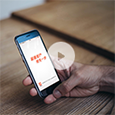
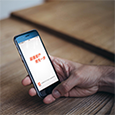
modified video

diff --git a/index.html b/index.html
@@ -225,23 +225,30 @@
                                 </form>
                             </div>
                         </div>
+						<p class="playvideo"><a href="" data-toggle="modal" data-target="#myModal_video1" data-dismiss="modal" aria-hidden="true"><img src="images/index/play.png">  超值资产，点击开启简陋之旅</a></p>		
+						<!-- 视频模态框（Modal） -->
+						<div class="modal fade" id="myModal_video1" tabindex="-1" role="dialog" 
+						   aria-labelledby="myModalLabel" aria-hidden="true">
+						   <div class="modal-dialog">
+							  <div class="modal-content">
+								<video width="100%" controls id="video1">
+								  <source src="images/index/sp(1).mp4" type="video/mp4">
+								</video>
+							  </div><!-- /.modal-content -->
+						   </div><!-- /.modal -->
+						</div>							
+						<script>
+							// 视频播放	   
+							var myVideo=document.getElementById("video1"); 
+							function playPause(){ 
+								  myVideo.play(); 
+							} 	  
+						</script>													
                     </div>				
 				</div>
 			</div>
 		</div>
-	<script>
-	   $(function(){		  
-		$("#indexCarousel").carousel('cycle');// 背景图片自动轮播
-		// 搜索切换
-		$('#tabBar').on('click', 'li', function(){
-			var tips = $(this).attr('tips');
-			if(tips){
-				$(this).addClass('on').siblings().removeClass('on');
-				$('#keyword').attr('placeholder',tips)
-			}
-		});		
-	   });  	   
-	</script>		
+
 	</div> 
 	<!-- 模块入口 -->
 	<div class="module-entrance">
@@ -289,8 +296,20 @@
 		</ul>
 		 <div class="clearfix"></div>
 	 </div>
-	</div> 	
-<div style="background:#f5f5f5;padding-bottom:50px">	
+	</div> 
+</div><!-- 背景f5结束标签 -->	
+	
+<div style="background:#f5f5f5;padding:50px 0">	
+<!-- 平台特点 -->	
+<div class="mask4-wrapper">
+	<h2>价值资产 <span>覆盖全国16座城市，持续扩张中</span></h2>
+	<ul class="clearfix">
+		<li><h3>专家解读</h3><p>资深专家</br>在线答疑</p></li>
+		<li><h3>数据分析</h3><p>大数据库</br>专业分析</p></li>
+		<li><h3>全程服务</h3><p>从始而终</br>安心无忧</p></li>
+		<li><h3>金融助力</h3><p>合法资金</br>强大保障</p></li>
+	</ul>
+</div>		
 	<!-- 城市入口 -->
 	<div class="city-entrance">
 		<div class="container">
@@ -332,7 +351,7 @@
 				</div>
 			</div>
 		</div>
-	</div>	
+	</div>		
 <!-- 司法拍卖	 -->
 <div class="city_tuijian con12">
 	<h2 style="float:left;">司法拍卖 <span>专业指导，精确捡漏</span></h2>
@@ -343,7 +362,7 @@
 	   <li><a href="#gengduo" data-toggle="tab">更多</a></li>
 	</ul>
 	<div class="clearfix"></div>
-	<div id="myTabContent" class="tab-content">
+	<div id="myTabContent" class="tab-content" >
 		<!-- 城市1 -->
 		<div class="value con12 tab-pane fade in active" id="beijing">
 			<div class="value_con w360">
@@ -915,17 +934,7 @@
 	</div>	
 </div>		
 <div class="clearfix"></div>	
-<!-- 平台特点 -->	
-<div class="mask4-wrapper">
-	<h2>平台特点</h2>
-	<p>我们足够专业，所以更值得信任</p>
-	<ul class="clearfix">
-		<li><h3>专家解读</h3><p>资深专家</br>在线答疑</p></li>
-		<li><h3>数据分析</h3><p>大数据库</br>专业分析</p></li>
-		<li><h3>全程服务</h3><p>从始而终</br>安心无忧</p></li>
-		<li><h3>金融助力</h3><p>合法资金</br>强大保障</p></li>
-	</ul>
-</div>	
+</div><!-- 背景f5结束标签 -->
 <!-- 下载APP -->
 <div class="app-wrapper">
 	<div class="app-info">
@@ -963,6 +972,8 @@
 		  myVideo.play(); 
 	} 	  
 </script>	
+
+<div style="background:#f5f5f5;padding:50px 0">	
 	<div class="news">
 		<h2>资讯信息 <span>热门资讯，一手掌握</span></h2>
 		<div class="news_con">
@@ -1003,7 +1014,7 @@
 		</div>
 		<div class="clearfix"></div>
 	</div>	
-</div><!-- 背景f5结束标签 -->
+</div>	<!-- 背景f5结束标签 -->
 <!-- 合作伙伴 -->
 <div class="partners">
 	<h2>合作伙伴</h2>
@@ -1046,6 +1057,66 @@ function hideImg(){
 	$(".wechat").css("display","none");
 }
 </script>
+
+<script type="text/javascript">
+	function addLoadEvent(func) {
+	  var oldonload = window.onload;
+	  if (typeof window.onload != 'function') {
+		window.onload = func;
+	  } else {  
+		window.onload = function() {
+		  oldonload();
+		  func();
+		}
+	  }
+	}
+	function $(id){
+		return document.getElementById(id);
+	}
+	function showProvince(){
+		$("selectProvince").onclick = showAllProvince;
+		selectProvince();
+	}
+	function showAllProvince(){
+		$("allProvince").style.display = "block";
+		$("selectProvince").style.color = "#CCCCCC";
+		$("selectProvince").style.backgroundPosition = "39px -17px";
+	}
+	function hideAllProvince(){
+		$("allProvince").style.display = "none";
+		$("selectProvince").style.color = "#000000";
+		$("selectProvince").style.backgroundPosition = "49px -2px";
+	}
+	function selectProvince(){
+		var pro = $("allProvince").getElementsByTagName("li");
+		var links;
+		for(var i=0;i<pro.length;i++){
+			links = pro[i].getElementsByTagName("a");
+			for(var j=0;j<links.length;j++){
+				links[j].onclick = function(){
+					$("selectProvince").innerHTML = this.innerHTML;
+					hideAllProvince();
+				}
+			}
+		}
+	}
+	addLoadEvent(showProvince);
+</script>
+
+	<script>
+	   $(function(){		  
+		$("#indexCarousel").carousel('cycle');// 背景图片自动轮播
+		// 搜索切换
+		$('#tabBar').on('click', 'li', function(){
+			var tips = $(this).attr('tips');
+			if(tips){
+				$(this).addClass('on').siblings().removeClass('on');
+				$('#keyword').attr('placeholder',tips)
+			}
+		});		
+	   });  	   
+	</script>		
+
 </body>
 </html>
 

diff --git a/css/index.css b/css/index.css
@@ -51,7 +51,9 @@
 .text{ color: #a9a9a9; width:376px; height: 31px; border:none; text-indent: 10px; float:left; outline: none; border:0;}
 .button{ width: 97px; height: 32px; text-align: center; color: #fff; font-size:18px;background: #1d7ad9; border:none; float: left;}
 
-
+.playvideo{margin:20px;text-align:center;}
+.playvideo a{margin:20px;color:#fff;font-size:20px}
+.playvideo img{margin:0 20px;}
 
 
 
@@ -281,8 +283,23 @@ background-image: none;	right:-100px}
 
 
 
-
-
+/* 城市选择 */
+.City {
+    width: 70px;
+    height: 42px;
+    background: #C00;
+    padding-left: 10px;
+    position: relative;
+    margin-left: -70px;
+    top: 50px;
+}
+.City strong{width:48px;height:42px;color:#FFF;line-height:42px;font-size:14px;font-weight:bold;display:block;float:left;}
+.City span{width:50px;height:24px;line-height:24px;border:1px solid #999;background:#FFF url(../images/index/province_sprites.png) no-repeat 39px -2px;display:block;float:left;margin-top:8px;padding-left:4px;cursor:pointer;}
+.City ul{width:70px;height:auto;background:#FFF;border:1px solid #dfdfdf;border-bottom:none;clear:both;position:absolute;left:0;top:42px;display:none;z-index:9999;}
+.City ul li{height:30px;line-height:30px;border-bottom:1px solid #dfdfdf;padding-left:10px;}
+.City ul li b{font-weight:bold;}
+ul,li{list-style:none;}
+.show{display:block;}
 
 
 
@@ -290,15 +307,12 @@ background-image: none;	right:-100px}
 
 /* 平台特点 */
 .mask4-wrapper {
-    margin: 100px auto 60px;
-    width: 1000px;
+    margin: 50px auto 60px;
+    width: 1140px;
     text-align: center;
 }
-.mask4-wrapper h2 {
-    font-size: 32px;
-    color: #333;
-    line-height: 1;
-}
+.mask4-wrapper>h2 {margin: 50px 0 20px;font-size: 30px;text-align:left}
+.mask4-wrapper h2 span{margin: 50px 0 20px;font-size: 16px;}
 .mask4-wrapper p {
     font-size: 20px;
     line-height: 1;
@@ -329,7 +343,7 @@ background-image: none;	right:-100px}
     cursor: pointer;
     float: left;
     -webkit-transition: box-shadow ease-in-out .3s;
-    transition: box-shadow ease-in-out .3s;
+    transition: box-shadow ease-in-out .3s;margin:0 17px;
 }
 .mask4-wrapper ul li h3 {
     font-size: 24px;
